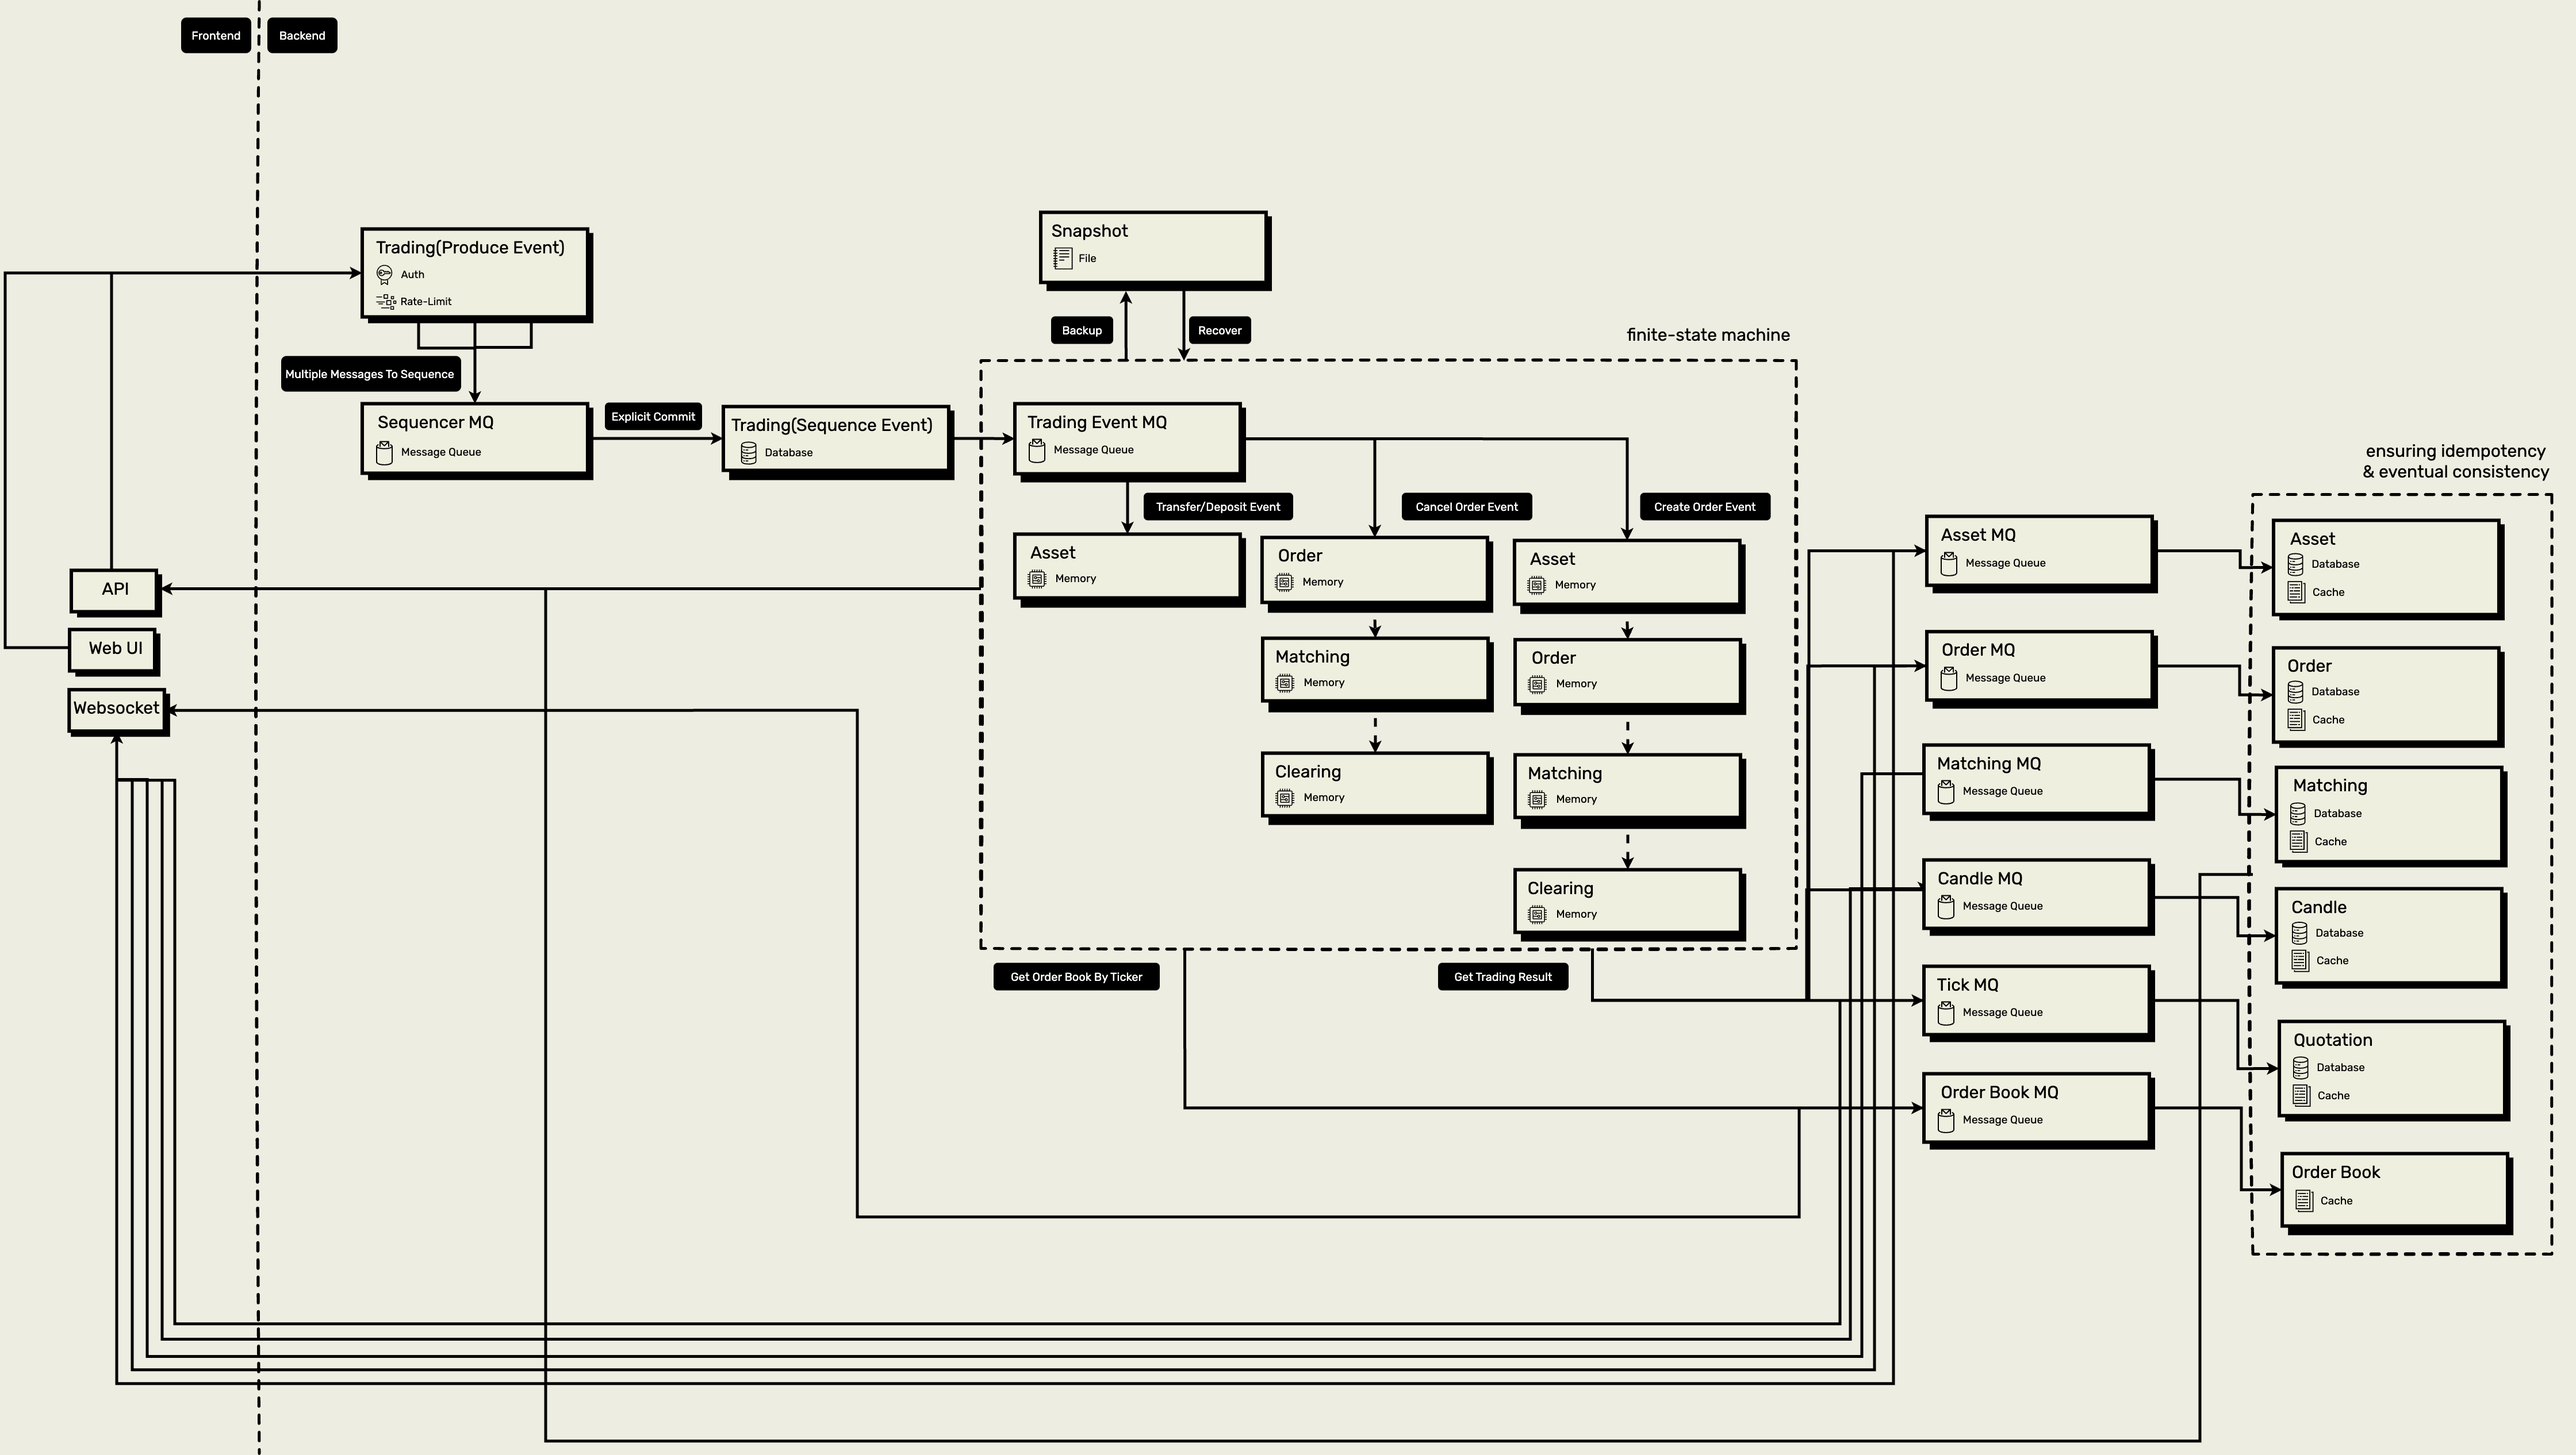
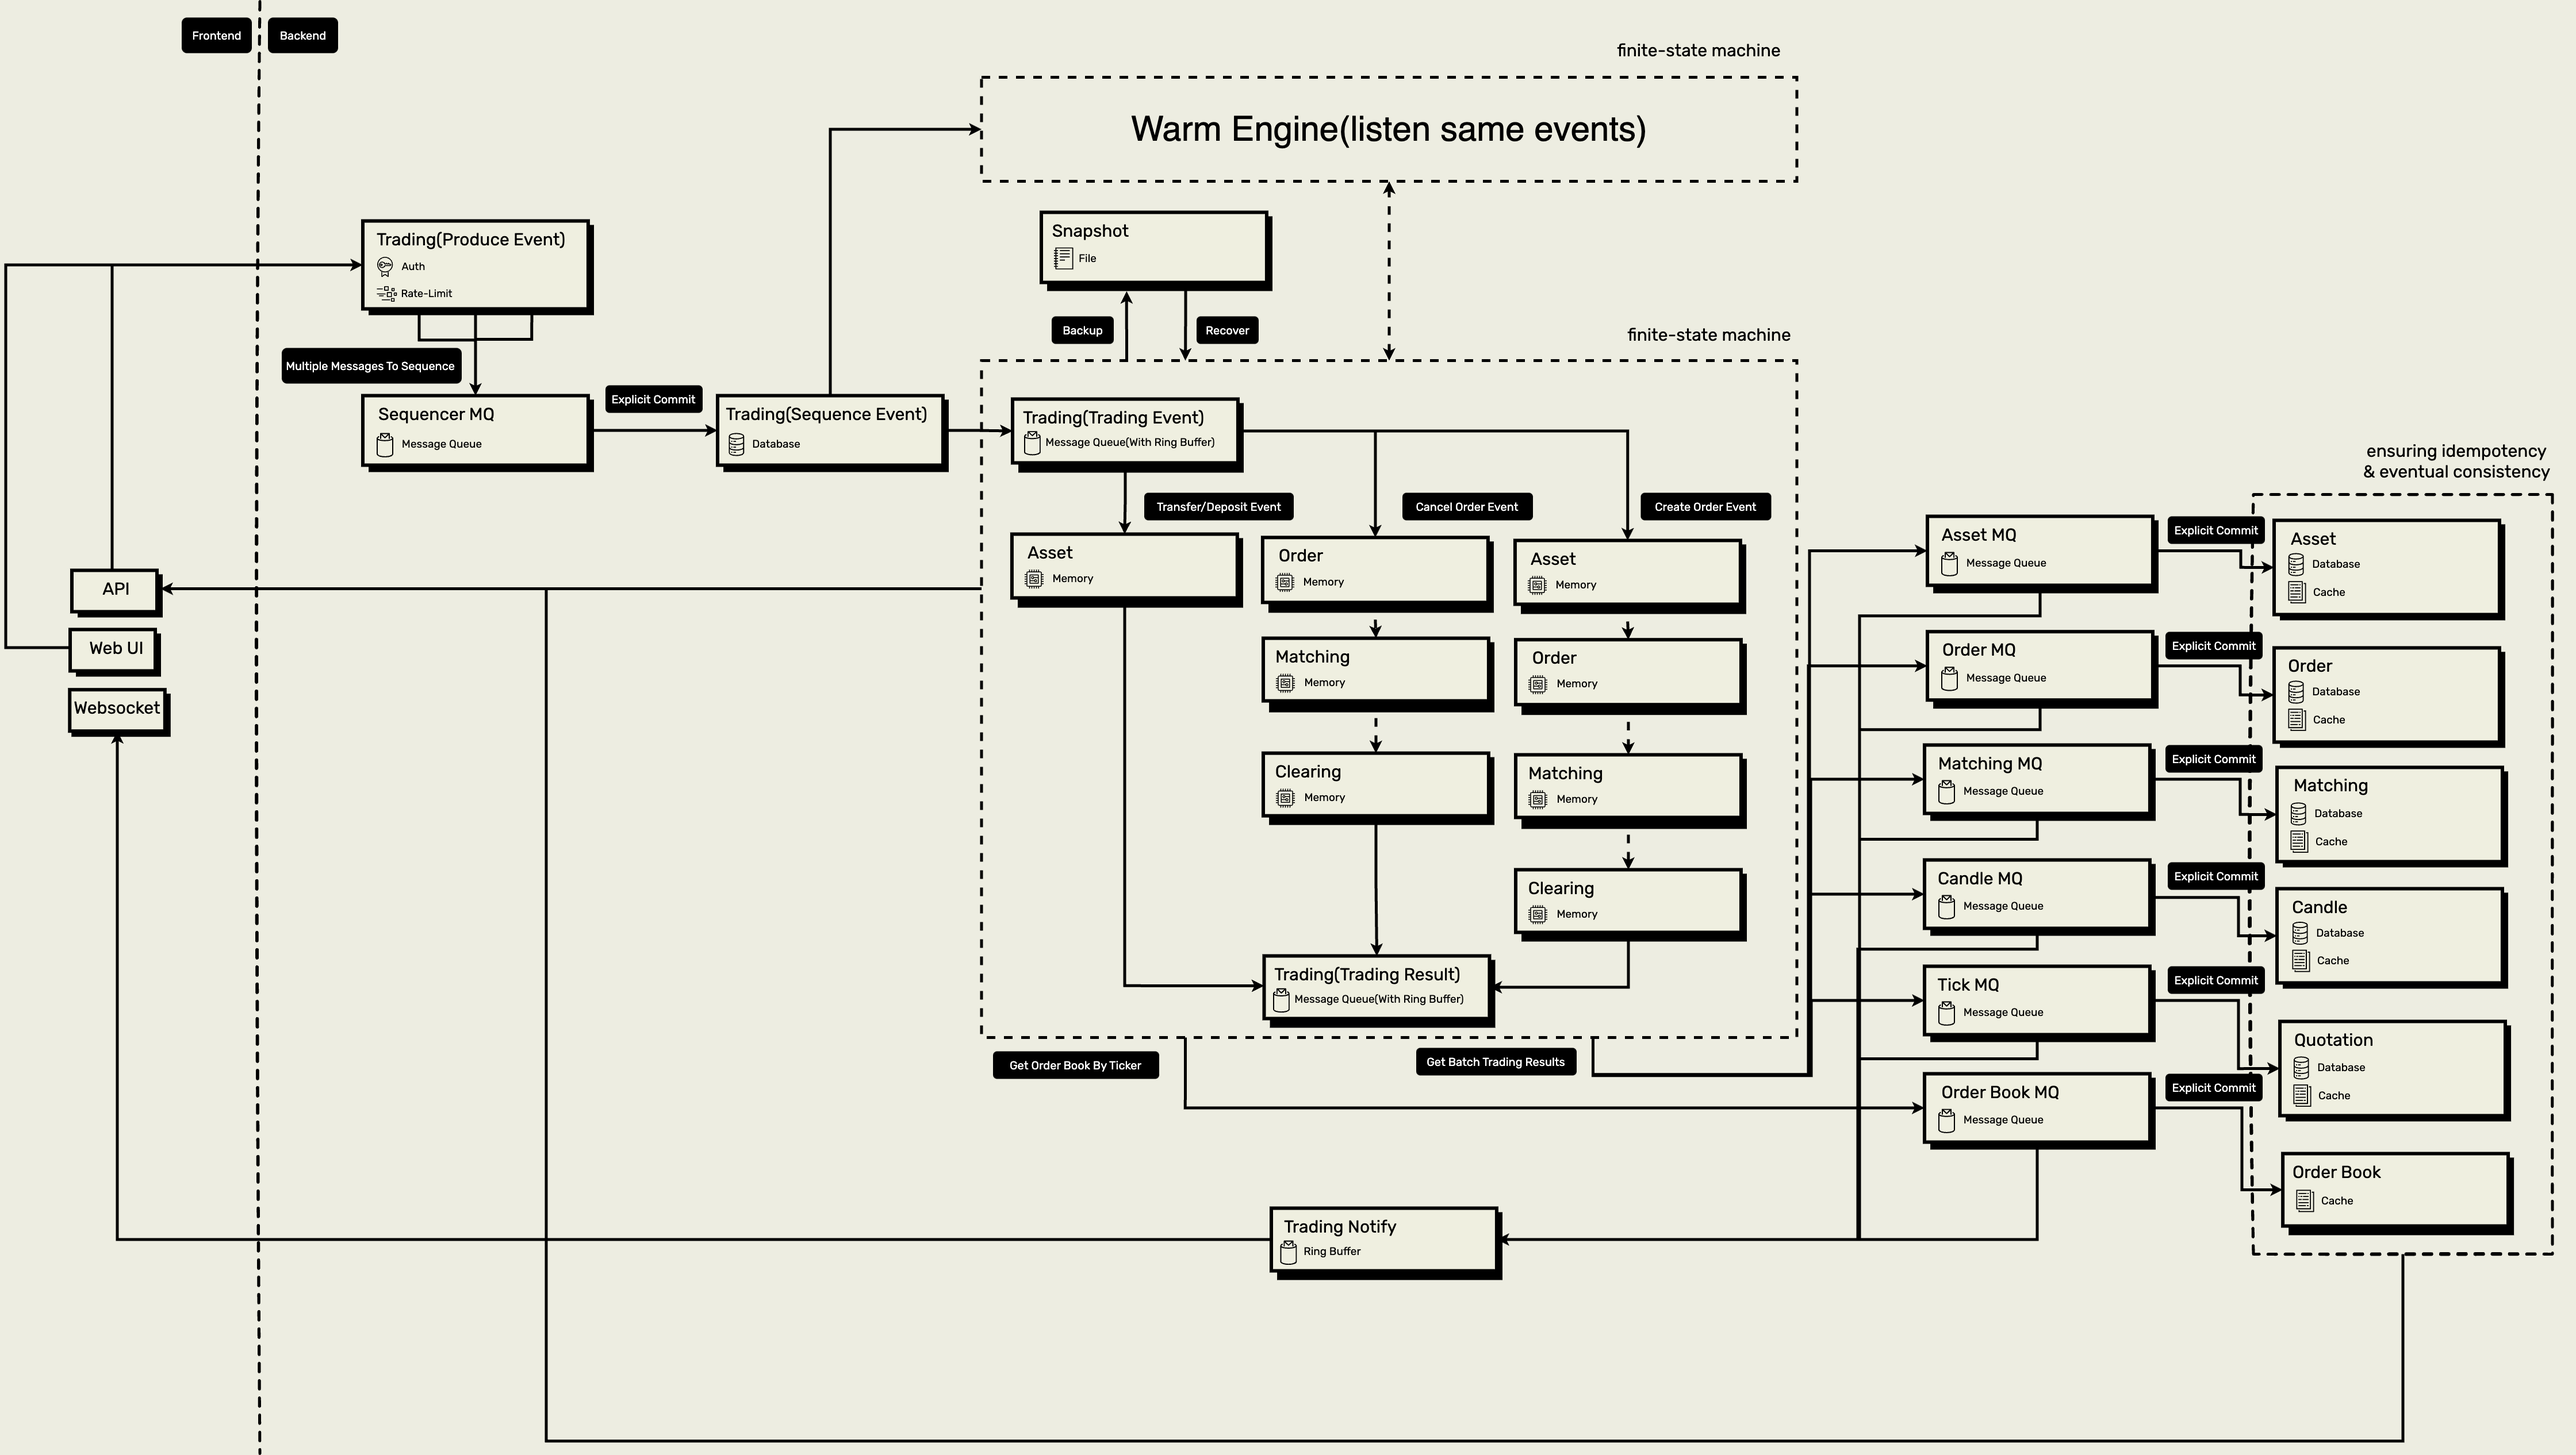
update

diff --git a/app/exchange-gitbitex/k6-script.js b/app/exchange-gitbitex/k6-script.js
@@ -65,7 +65,7 @@ export default function () {
   const params = {
     headers: {
       'Content-Type': 'application/json',
-      'Authentication': 'Bearer eyJhbGciOiJFUzI1NiIsInR5cCI6IkpXVCJ9.eyJleHAiOjE3MTAyMDQ2MDQsImlhdCI6MTcxMDIwMTAwNCwic3ViIjoiMTc2NzMzNzA4ODcwNjk0MDkyOCJ9.I0RRGlxGX7tcR3MagKnbfsjXy86I4tGuqgECfYKjYzsV0BenhjGnqFebDAuFuc53ofePM5llDUlKLZ9nn-8VWQ',
+      'Authentication': 'Bearer eyJhbGciOiJFUzI1NiIsInR5cCI6IkpXVCJ9.eyJleHAiOjE3MTAyNzk3ODUsImlhdCI6MTcxMDI3NjE4NSwic3ViIjoiMTc2NzY1MjUxMTQ2MTY3NTAwOCJ9.07rFqeyG1DLu84YaUep8e6xyqSh_N3z0l5o-TMIr_S99Gq3FEWCQMo628wdHBPh_HfqRS-Fk3CnZgkNORi_2uQ',
     },
   };
 

diff --git a/kit/mq/memory/memory.go b/kit/mq/memory/memory.go
@@ -9,13 +9,14 @@ import (
 	"github.com/pkg/errors"
 	"github.com/superj80820/system-design/kit/mq"
 	"github.com/superj80820/system-design/kit/util"
+	utilKit "github.com/superj80820/system-design/kit/util"
 )
 
 type memoryMQ struct {
 	observers       util.GenericSyncMap[mq.Observer, mq.Observer] // TODO: test key safe?
 	observerBatches util.GenericSyncMap[mq.Observer, mq.Observer] // TODO: test key safe?
 	messageCh       chan []byte
-	messages        [][]byte
+	messages        *utilKit.RingBuffer[[]byte]
 	doneCh          chan struct{}
 	cancel          context.CancelFunc
 	lock            *sync.Mutex
@@ -24,11 +25,12 @@ type memoryMQ struct {
 
 var _ mq.MQTopic = (*memoryMQ)(nil)
 
-func CreateMemoryMQ(ctx context.Context, messageChannelBuffer int, messageCollectDuration time.Duration) mq.MQTopic {
+func CreateMemoryMQ(ctx context.Context, bufferSize int, collectDuration time.Duration) mq.MQTopic {
 	ctx, cancel := context.WithCancel(ctx)
 
 	m := &memoryMQ{
-		messageCh: make(chan []byte, messageChannelBuffer),
+		messageCh: make(chan []byte),
+		messages:  utilKit.CreateRingBuffer[[]byte](bufferSize),
 		doneCh:    make(chan struct{}),
 		lock:      new(sync.Mutex),
 		cancel:    cancel,
@@ -39,7 +41,7 @@ func CreateMemoryMQ(ctx context.Context, messageChannelBuffer int, messageCollec
 			select {
 			case message := <-m.messageCh:
 				m.lock.Lock()
-				m.messages = append(m.messages, message)
+				m.messages.Enqueue(&message)
 				m.lock.Unlock()
 			case <-ctx.Done():
 				close(m.doneCh)
@@ -47,7 +49,7 @@ func CreateMemoryMQ(ctx context.Context, messageChannelBuffer int, messageCollec
 		}
 	}()
 
-	ticker := time.NewTicker(messageCollectDuration)
+	ticker := time.NewTicker(collectDuration)
 	go func() {
 		defer ticker.Stop()
 
@@ -56,12 +58,20 @@ func CreateMemoryMQ(ctx context.Context, messageChannelBuffer int, messageCollec
 			cloneMessages, err := func() ([][]byte, error) {
 				m.lock.Lock()
 				defer m.lock.Unlock()
-				if len(m.messages) == 0 {
+				if m.messages.IsEmpty() {
 					return nil, errors.Wrap(continueErr, "message length is 0")
 				}
-				cloneMessages := make([][]byte, len(m.messages))
-				copy(cloneMessages, m.messages)
-				m.messages = nil
+				messagesSize := m.messages.GetSize()
+				cloneMessages := make([][]byte, messagesSize)
+				for i := 0; i < messagesSize; i++ {
+					message, err := m.messages.Dequeue()
+					if err != nil {
+						return nil, errors.New("dequeue failed")
+					}
+					copyMessage := make([]byte, len(*message))
+					copy(copyMessage, *message)
+					cloneMessages[i] = copyMessage
+				}
 
 				return cloneMessages, nil
 			}()

diff --git a/exchange/usecase/trading/notify.go b/exchange/usecase/trading/notify.go
@@ -123,7 +123,7 @@ func (t *tradingNotifyUseCase) NotifyForPublic(ctx context.Context, stream domai
 				if isConsumeCandle {
 					continue
 				}
-				t.candleNotifyRepo.ConsumeCandleMQWithRingBuffer(ctx, consumeKey, func(candleBar *domain.CandleBar) error {
+				t.candleNotifyRepo.ConsumeCandleMQ(ctx, consumeKey, func(candleBar *domain.CandleBar) error {
 					if err := stream.Send(domain.TradingNotifyResponse{
 						Type:      domain.CandleExchangeResponseType,
 						ProductID: t.currencyUseCase.GetProductID(),
@@ -279,7 +279,7 @@ func (t *tradingNotifyUseCase) NotifyForUser(ctx context.Context, userID int, st
 				if isConsumeCandle {
 					continue
 				}
-				t.candleNotifyRepo.ConsumeCandleMQWithRingBuffer(ctx, consumeKey, func(candleBar *domain.CandleBar) error {
+				t.candleNotifyRepo.ConsumeCandleMQ(ctx, consumeKey, func(candleBar *domain.CandleBar) error {
 					if err := stream.Send(domain.TradingNotifyResponse{
 						Type:      domain.CandleExchangeResponseType,
 						ProductID: t.currencyUseCase.GetProductID(),

diff --git a/exchange/repository/candle/notify.go b/exchange/repository/candle/notify.go
@@ -21,7 +21,7 @@ func CreateCandleNotifyRepo(candleNotifyMQTopic mq.MQTopic) domain.CandleNotifyR
 	}
 }
 
-func (c *candleNotifyRepo) ConsumeCandleMQWithRingBuffer(ctx context.Context, key string, notify func(candleBar *domain.CandleBar) error) {
+func (c *candleNotifyRepo) ConsumeCandleMQ(ctx context.Context, key string, notify func(candleBar *domain.CandleBar) error) {
 	observer := c.candleNotifyMQTopic.Subscribe(key, func(message []byte) error {
 		var mqMessage mqCandleMessage
 		err := json.Unmarshal(message, &mqMessage)

diff --git a/domain/candle.go b/domain/candle.go
@@ -37,7 +37,7 @@ type CandleRepo interface {
 }
 
 type CandleNotifyRepo interface {
-	ConsumeCandleMQWithRingBuffer(ctx context.Context, key string, notify func(candleBar *CandleBar) error)
+	ConsumeCandleMQ(ctx context.Context, key string, notify func(candleBar *CandleBar) error)
 	StopConsume(ctx context.Context, key string)
 }
 
